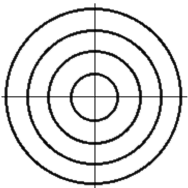
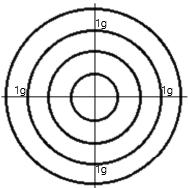
Ulteriori upgrade al grafico di accelerazione (non ancora ultimato)

diff --git a/src/app/gforce-section/gforce-section.component.css b/src/app/gforce-section/gforce-section.component.css
@@ -12,3 +12,150 @@
 .sotto{
     position: absolute;
 }
+
+.btn.empty{
+
+    background-color: transparent;
+}
+
+.btn.empty:hover{
+    background-color: transparent;
+}
+
+
+
+.button {
+    background-color: #4CAF50;
+    border: none;
+    color: white;
+    padding: 20px;
+    text-align: center;
+    text-decoration: none;
+    display: inline-block;
+    font-size: 16px;
+    margin: 4px 2px;
+    border-radius: 50%;
+    box-shadow: 0 1px 4px rgba(0, 0, 0, .6);
+
+    transition: background-color .3s;
+}
+
+.button:hover, .button:focus {
+    background-color: #27ae60;
+}
+
+.button.orange{
+    background-color: #e67e22;
+}
+
+
+.button.orange:hover, .button.orange:focus {
+    background-color: #d35400;
+}
+
+.button.red{
+    background-color: #e62222;
+}
+
+
+.button.red:hover, .button.red:focus {
+    background-color: #d30000;
+}
+
+.banner-font{
+
+    font-family: Impact;
+
+}
+
+
+.btn {
+    position: relative;
+
+    display: block;
+    margin: 0px auto;
+    padding: 0;
+
+    overflow: hidden;
+
+    border-width: 0;
+    outline: none;
+    border-radius: 2px;
+    box-shadow: 0 1px 4px rgba(0, 0, 0, .6);
+
+    background-color: #2ecc71;
+    color: #ecf0f1;
+
+    transition: background-color .3s;
+}
+
+.btn:hover, .btn:focus {
+    background-color: #27ae60;
+}
+
+.btn > * {
+    position: relative;
+}
+
+.btn span {
+    display: block;
+    padding: 5px 15px;
+}
+
+.btn:before {
+    content: "";
+
+    position: absolute;
+    top: 50%;
+    left: 50%;
+
+    display: block;
+    width: 0;
+    padding-top: 0;
+
+    border-radius: 100%;
+
+    background-color: rgba(236, 240, 241, .3);
+
+    -webkit-transform: translate(-50%, -50%);
+    -moz-transform: translate(-50%, -50%);
+    -ms-transform: translate(-50%, -50%);
+    -o-transform: translate(-50%, -50%);
+    transform: translate(-50%, -50%);
+}
+
+.btn:active:before {
+    width: 120%;
+    padding-top: 120%;
+
+    transition: width .2s ease-out, padding-top .2s ease-out;
+}
+
+/* Styles, not important */
+*, *:before, *:after {
+    box-sizing: border-box;
+}
+
+
+
+.btn.orange {
+    background-color: #e67e22;
+}
+
+.btn.orange:hover, .btn.orange:focus {
+    background-color: #d35400;
+}
+
+.btn.red {
+    background-color: #e74c3c;
+}
+
+.btn.red:hover, .btn.red:focus {
+    background-color: #c0392b;
+}
+
+.spanBar{
+    font-size: 30px;
+    padding-left: 30px;
+    padding-right: 30px;
+}

diff --git a/src/app/gforce-section/gforce-section.component.ts b/src/app/gforce-section/gforce-section.component.ts
@@ -1,4 +1,5 @@
-import { Component, OnInit } from '@angular/core';
+import {Component, NgZone, OnInit} from '@angular/core';
+import {GforceService} from "../gforce.service";
 
 @Component({
   selector: 'app-gforce-section',
@@ -6,11 +7,46 @@ import { Component, OnInit } from '@angular/core';
   styleUrls: ['./gforce-section.component.css']
 })
 export class GforceSectionComponent implements OnInit {
-  public x_axis = '16px';  //CENTER 16PX
-  public y_axis = '-1px';  //CENTER -1PX
-  constructor() { }
+  public x_axis;  //CENTER 16PX
+  public y_axis;  //CENTER -1PX
+  public longitudinal;
+  public lateral;
+
+  constructor(private _gforceService: GforceService, private ngZone: NgZone) { }
 
   ngOnInit(): void {
+    this.ascoltaAccLong();
+    this.ascoltaAccLat();
   }
+  ascoltaAccLong(){
+    this._gforceService.getLongitudinalAcc().subscribe(value => {
+      this.ngZone.run(() => {
+        this.longitudinal = value;
+        this.updateGForce();
+      });
+
+    });
+  }
+  ascoltaAccLat(){
+    this._gforceService.getLateralAcc().subscribe(value => {
+      this.ngZone.run(() => {
+        this.lateral = value;
+        this.updateGForce();
+      });
+
+    });
+  }
+  updateGForce(){
+    const zeroLat = 16;
+    const zeroLong = -1;
+
+    let tempLat = this.lateral * 6.78;
+    let tempLong = this.longitudinal * -6.78;
+
+      this.x_axis = zeroLat + tempLat + 'px';
+      this.y_axis = zeroLong + tempLong + 'px';
+
+  }
+
 
 }

diff --git a/src/app/gforce-section/gforce-section.component.html b/src/app/gforce-section/gforce-section.component.html
@@ -1,4 +1,8 @@
-<div class="col-sm-4">
-    <img id="pointer" class="image sotto" src="../../assets/img/pointer.png" alt="" width="188" height="188" [style.left]="x_axis" [style.bottom]="y_axis">
-    <img id="grafico" class="image sopra" src="../../assets/img/Gforce.png" alt="" width="188" height="188">
+<div class="col-sm-4" style="position: absolute; left: 53%; top: 25%">
+    <img id="pointer" class="sotto" src="../../assets/img/pointer.png" alt="" width="188" height="188" [style.left]="x_axis" [style.bottom]="y_axis">
+    <img id="grafico" class="sopra" src="../../assets/img/Gforce.png" alt="" width="188" height="188">
+    <div style="position: absolute; left: 60px; top: 190px" >
+        <button class="btn " type="button"><span class="spanBar" [textContent]="longitudinal"></span>m/s2</button>
+        <button class="btn " type="button"><span class="spanBar" [textContent]="lateral"></span>m/s2</button>
+    </div>
 </div>

diff --git a/src/app/gforce.service.ts b/src/app/gforce.service.ts
@@ -1,9 +1,31 @@
 import { Injectable } from '@angular/core';
 
+import { AngularFireDatabase } from '@angular/fire/database'
+import {Observable} from "rxjs";
+
+const longAccDBPath = 'storico/002';
+const latAccDBPath = 'storico/003';
+
 @Injectable({
   providedIn: 'root'
 })
 export class GforceService {
 
-  constructor() { }
+  constructor(private db: AngularFireDatabase) { }
+
+  getLongitudinalAcc(): Observable<number>{
+    return new Observable<number>(subscriber => {
+      this.db.database.ref(longAccDBPath).limitToLast(1).on("child_added", child => {
+        subscriber.next(child.val());
+      })
+    })
+  }
+
+  getLateralAcc(): Observable<number>{
+    return new Observable<number>(subscriber => {
+      this.db.database.ref(latAccDBPath).limitToLast(1).on("child_added", child => {
+        subscriber.next(child.val());
+      })
+    })
+  }
 }

diff --git a/src/app/storico/storico.component.ts b/src/app/storico/storico.component.ts
@@ -1,7 +1,6 @@
 import { Component, OnInit } from '@angular/core';
 import { AngularFireAuth } from '@angular/fire/auth';
 import { HostListener } from '@angular/core';
-import { AngularFirestore } from '@angular/fire/firestore'
 import { AngularFireDatabase } from '@angular/fire/database'
 import { Observable, from } from 'rxjs'
 import { ViewEncapsulation } from '@angular/core';

diff --git a/src/app/speedometer-section/speedometer-section.component.html b/src/app/speedometer-section/speedometer-section.component.html
@@ -8,3 +8,4 @@
     <app-bars-section></app-bars-section>
 
 </div>
+<!--<app-gforce-section></app-gforce-section>-->
